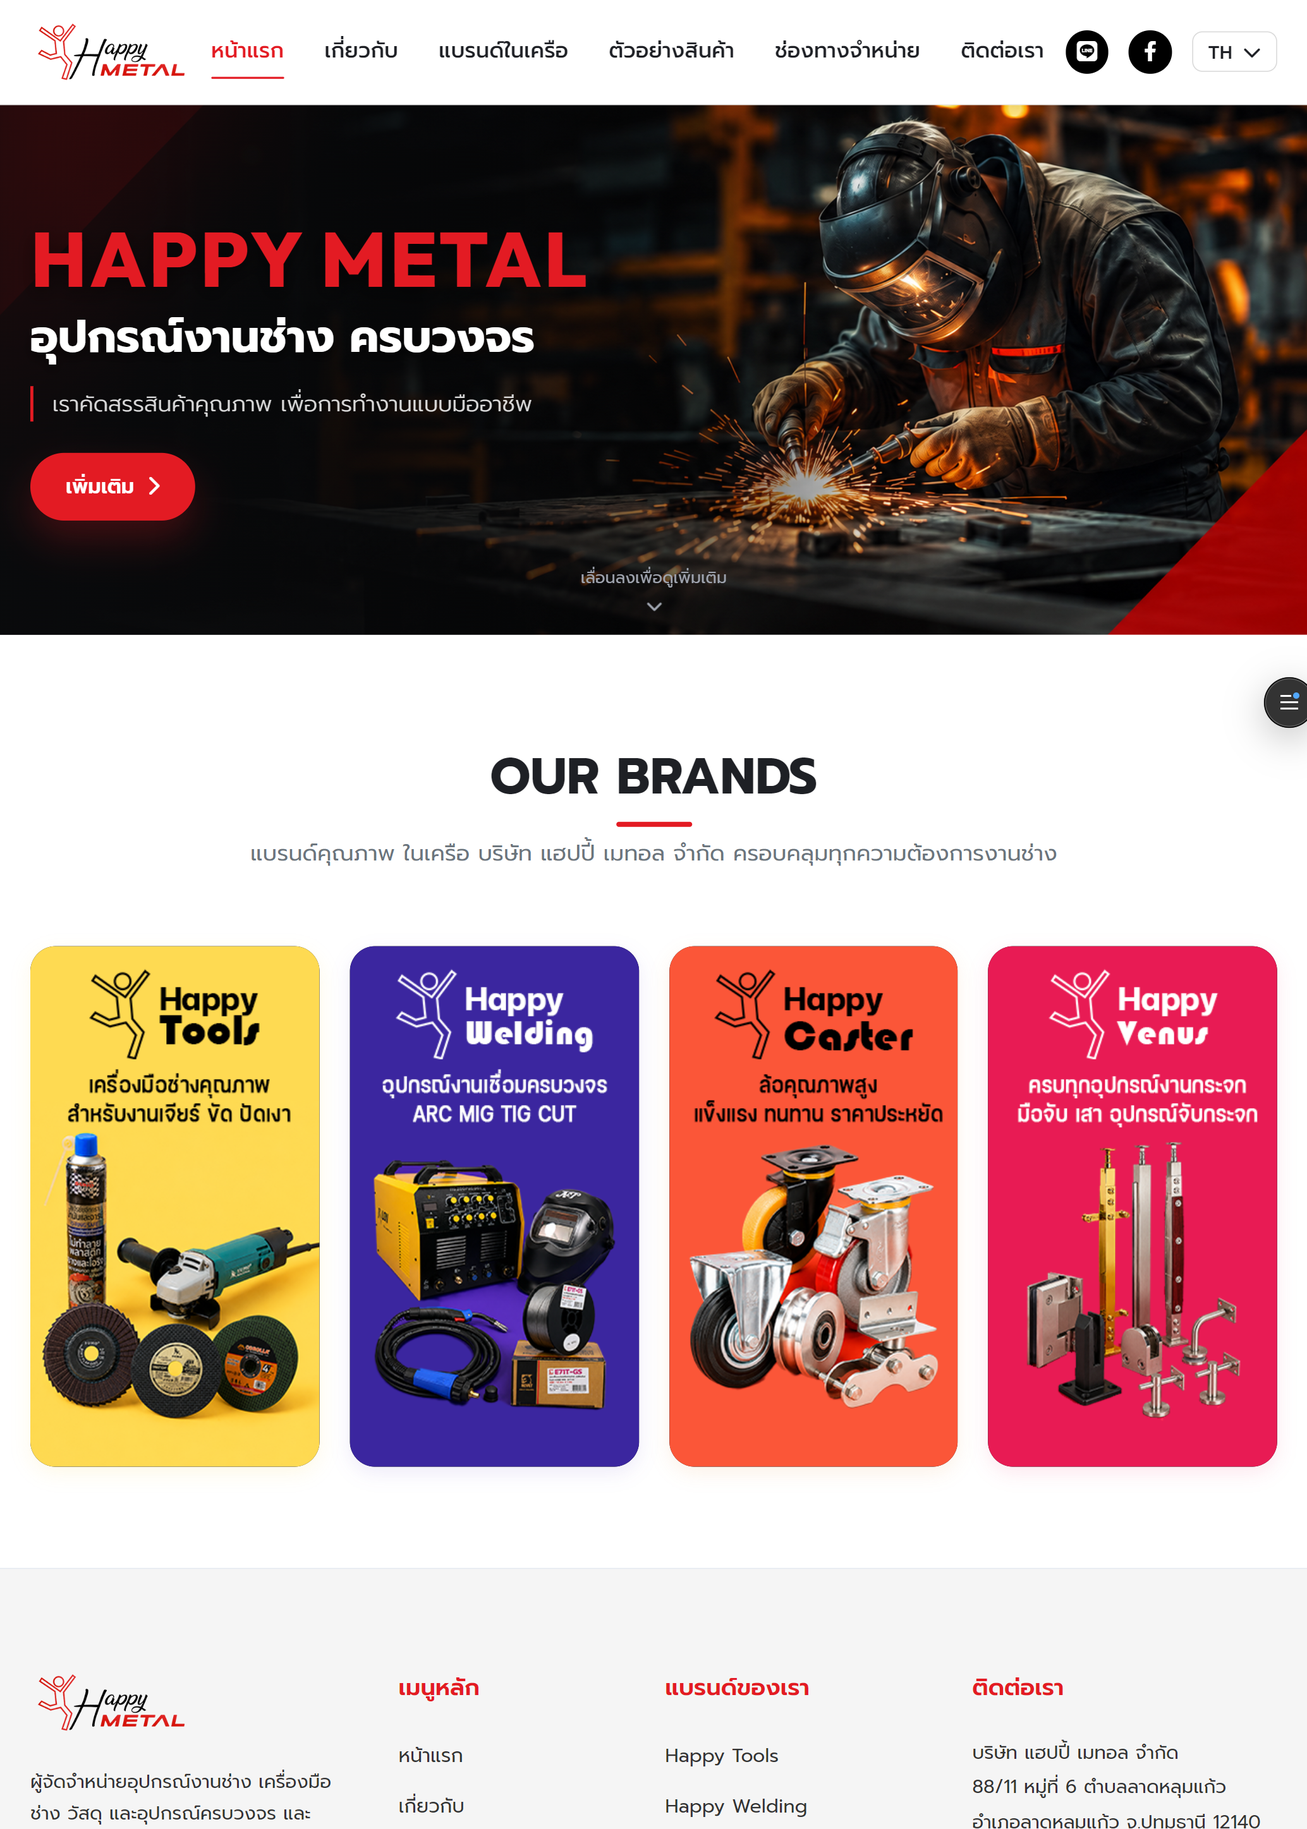
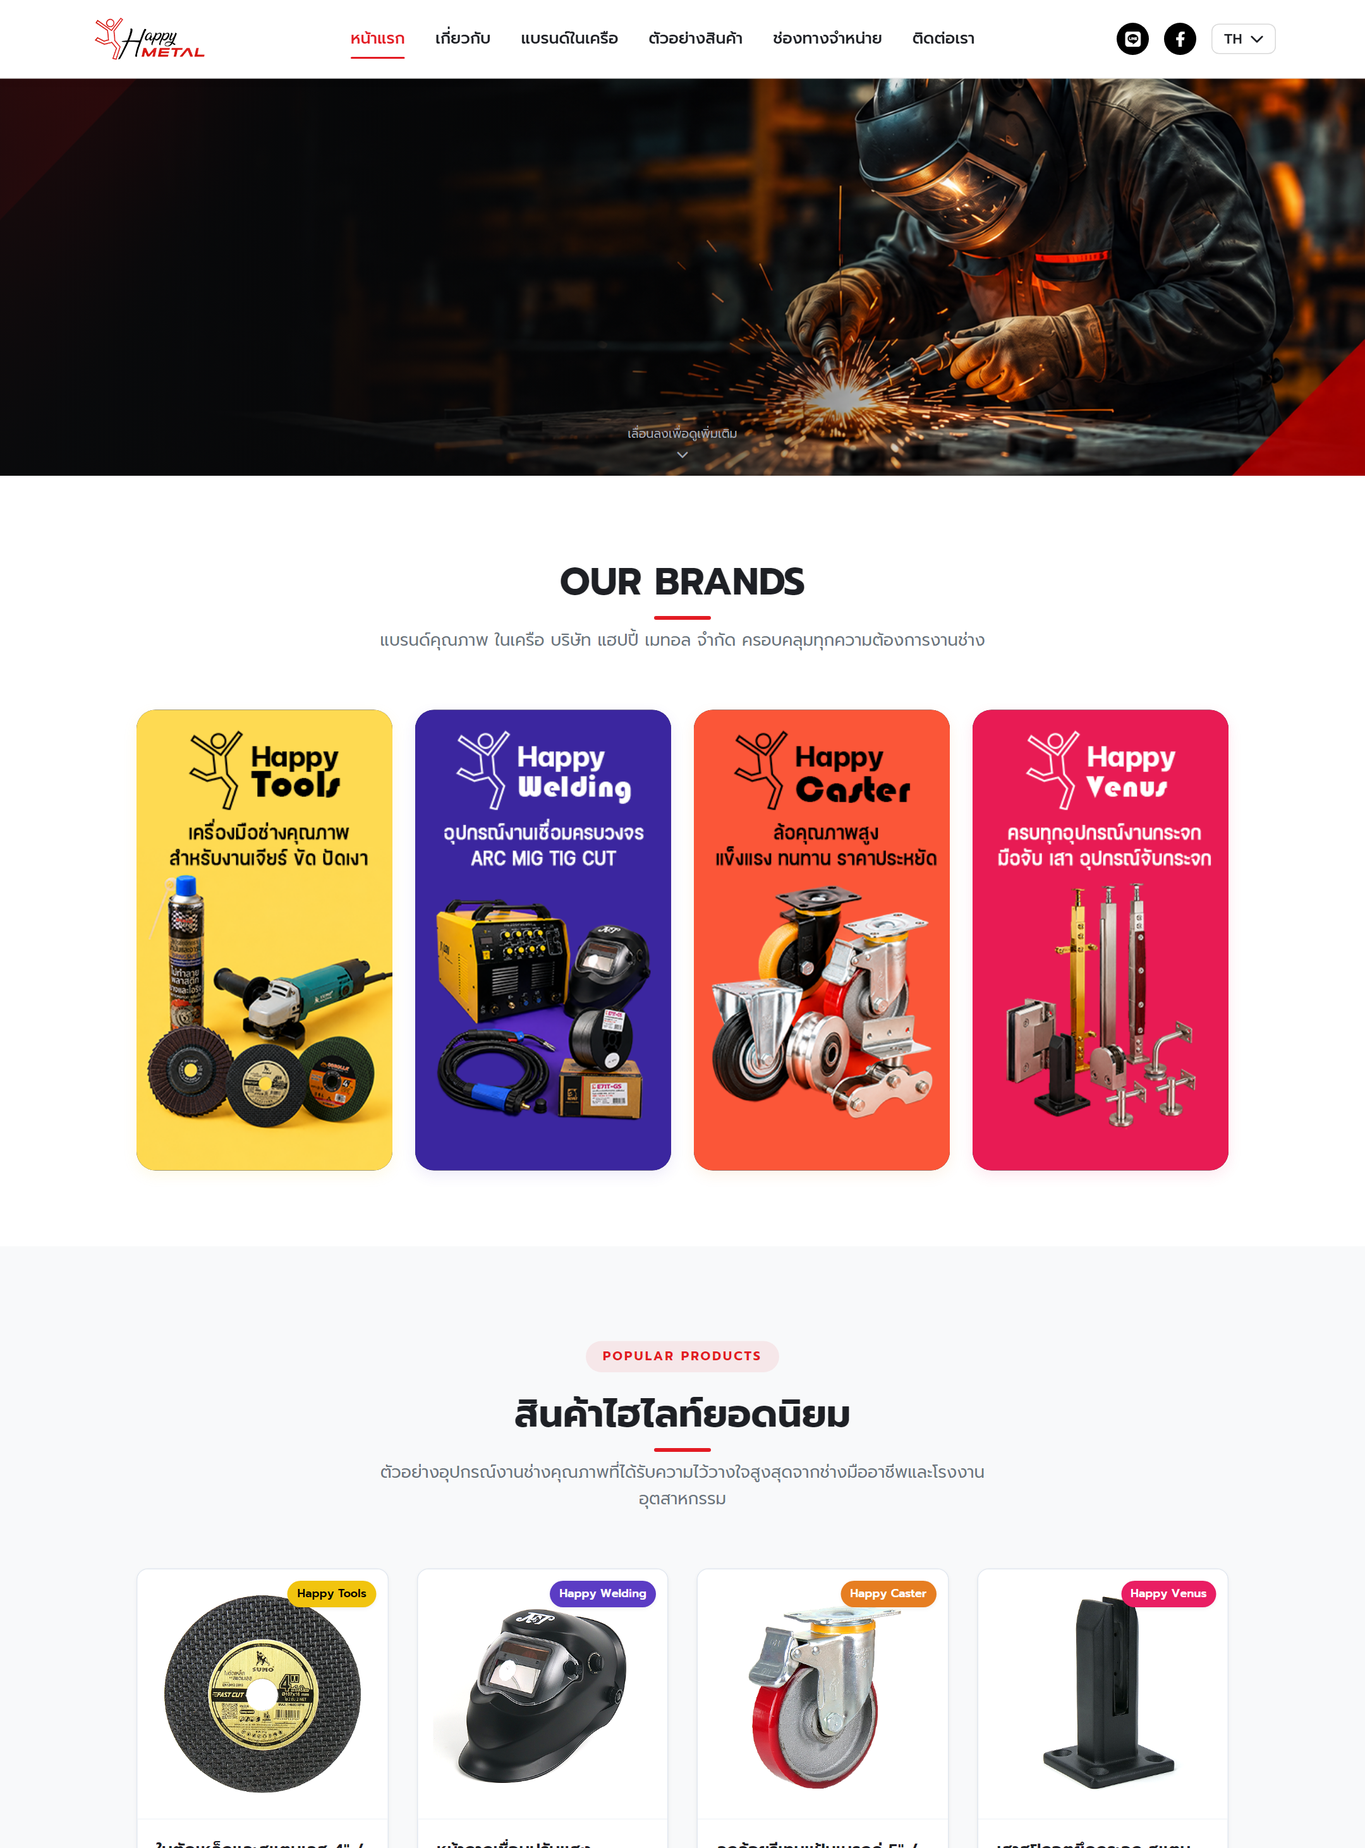
feat(web-ui): update Happy Metal project to 6 widescreen desktop pages and fix modal image aspect ratio

diff --git a/index.html b/index.html
@@ -1590,7 +1590,7 @@
 
     .modal-image-gallery.full-size-gallery .modal-image-item {
       width: 100%;
-      max-width: 960px;
+      max-width: 1120px;
       display: flex;
       justify-content: center;
       align-items: center;
@@ -2159,6 +2159,40 @@
       border-color: var(--accent);
       background: rgba(var(--accent-rgb), 0.08);
       transform: translateY(-1px);
+    }
+
+    .ui-subbar-actions {
+      display: flex;
+      align-items: center;
+      gap: 10px;
+      flex-wrap: wrap;
+    }
+
+    .ui-subbar-link.live-link {
+      background: rgba(229, 46, 45, 0.12);
+      border-color: rgba(229, 46, 45, 0.45);
+      color: #ff5f56;
+      font-weight: 700;
+    }
+
+    .ui-subbar-link.live-link:hover {
+      background: #E52E2D;
+      color: #ffffff;
+      border-color: #E52E2D;
+      box-shadow: 0 4px 16px rgba(229, 46, 45, 0.45);
+      transform: translateY(-2px);
+    }
+
+    a.ui-browser-url {
+      text-decoration: none;
+      cursor: pointer;
+      transition: all 0.2s ease;
+    }
+
+    a.ui-browser-url:hover {
+      color: var(--ink);
+      border-color: rgba(229, 46, 45, 0.6);
+      background: rgba(229, 46, 45, 0.15);
     }
 
     @media (max-width: 860px) {
@@ -4020,19 +4054,22 @@
                   <span class="ui-subbar-dot">·</span>
                   <span class="ui-subbar-type" data-en="E-Commerce & Web Architecture" data-th="เว็บไซต์ & โครงสร้างแคตตาล็อก">E-Commerce & Web Architecture</span>
                   <span class="ui-subbar-dot">·</span>
-                  <span class="ui-subbar-pages" data-en="4 Core Desktop Templates" data-th="4 หน้าหลัก (Desktop)">4 Core Desktop Templates</span>
+                  <span class="ui-subbar-pages" data-en="6 Core Desktop Templates" data-th="6 หน้าหลัก (Desktop)">6 Core Desktop Templates</span>
                 </div>
                 <h4 class="ui-subbar-title" data-en="Happy Metal — Industrial Hardware & Tools Website" data-th="Happy Metal — เว็บไซต์อุปกรณ์เครื่องมือช่าง & งานเชื่อม">Happy Metal — Industrial Hardware & Tools Website</h4>
               </div>
               <div class="ui-subbar-aside">
-                <p class="ui-subbar-desc" data-en="UI/UX desktop layout structured for clear catalog categorization and industrial brand aesthetic." data-th="ออกแบบ UI/UX เว็บไซต์ Happy Metal เน้นการจัดหมวดหมู่สินค้าให้ค้นหาง่าย ชัดเจน และเป็นระบบ">
-                  UI/UX desktop layout structured for clear catalog categorization and industrial brand aesthetic.
+                <p class="ui-subbar-desc" data-en="UI/UX desktop layout structured for clear catalog categorization, dynamic live search, and industrial brand aesthetic." data-th="ออกแบบ UI/UX เว็บไซต์ Happy Metal เน้นการจัดหมวดหมู่สินค้า ค้นหาด้วยระบบเสิร์ช และอัตลักษณ์แบรนด์งานช่างระดับมืออาชีพ">
+                  UI/UX desktop layout structured for clear catalog categorization, dynamic live search, and industrial brand aesthetic.
                 </p>
-                <a href="#project-happy-metal" class="ui-subbar-link" data-en="Product Graphics ↗" data-th="ดูกราฟิกสินค้า ↗">Product Graphics ↗</a>
+                <div class="ui-subbar-actions">
+                  <a href="https://happy-metal.vercel.app/index.html" target="_blank" rel="noopener noreferrer" class="ui-subbar-link live-link" data-en="Live Website ↗" data-th="เข้าชมเว็บไซต์จริง ↗">Live Website ↗</a>
+                  <a href="#project-happy-metal" class="ui-subbar-link" data-en="Product Graphics ↗" data-th="ดูกราฟิกสินค้า ↗">Product Graphics ↗</a>
+                </div>
               </div>
             </div>
 
-            <!-- 4 BROWSER MOCKUP CARDS GRID -->
+            <!-- 6 BROWSER MOCKUP CARDS GRID -->
             <div class="ui-browser-grid">
               <!-- Screen 01: Homepage -->
               <div class="ui-browser-card reveal reveal-scale vm-clickable-item" data-index="44" data-img-idx="0"
@@ -4043,7 +4080,7 @@
                     <span class="dot yellow"></span>
                     <span class="dot green"></span>
                   </div>
-                  <div class="ui-browser-url">happymetal.com/index.html</div>
+                  <a href="https://happy-metal.vercel.app/index.html" target="_blank" rel="noopener noreferrer" class="ui-browser-url" title="Open live page in new tab" onclick="event.stopPropagation()">happy-metal.vercel.app/index.html ↗</a>
                   <div class="ui-browser-page-num">01 / HOME</div>
                 </div>
                 <div class="ui-browser-screen">
@@ -4054,8 +4091,8 @@
                   </div>
                 </div>
                 <div class="ui-browser-footer">
-                  <span class="ui-screen-title" data-en="01. Homepage — Hero & Highlights"
-                    data-th="01. Homepage — หน้าแรก & สินค้าไฮไลต์">01. Homepage — หน้าแรก & สินค้าไฮไลต์</span>
+                  <span class="ui-screen-title" data-en="01. Homepage — Hero, Brands & Highlights"
+                    data-th="01. Homepage — หน้าแรก แบรนด์ & สินค้าไฮไลต์">01. Homepage — หน้าแรก แบรนด์ & สินค้าไฮไลต์</span>
                   <span class="ui-screen-badge">Main Page</span>
                 </div>
               </div>
@@ -4069,7 +4106,7 @@
                     <span class="dot yellow"></span>
                     <span class="dot green"></span>
                   </div>
-                  <div class="ui-browser-url">happymetal.com/about.html</div>
+                  <a href="https://happy-metal.vercel.app/about.html" target="_blank" rel="noopener noreferrer" class="ui-browser-url" title="Open live page in new tab" onclick="event.stopPropagation()">happy-metal.vercel.app/about.html ↗</a>
                   <div class="ui-browser-page-num">02 / ABOUT</div>
                 </div>
                 <div class="ui-browser-screen">
@@ -4080,14 +4117,13 @@
                   </div>
                 </div>
                 <div class="ui-browser-footer">
-                  <span class="ui-screen-title" data-en="02. About Us — Company Profile"
-                    data-th="02. About Us — เกี่ยวกับบริษัท & วิสัยทัศน์">02. About Us — เกี่ยวกับบริษัท &
-                    วิสัยทัศน์</span>
-                  <span class="ui-screen-badge">Story</span>
+                  <span class="ui-screen-title" data-en="02. About Us — Company Profile & Warehouse"
+                    data-th="02. About Us — เกี่ยวกับบริษัท & คลังสินค้ามาตรฐาน">02. About Us — เกี่ยวกับบริษัท & คลังสินค้ามาตรฐาน</span>
+                  <span class="ui-screen-badge">Company</span>
                 </div>
               </div>
 
-              <!-- Screen 03: Product Catalog -->
+              <!-- Screen 03: Our Brands -->
               <div class="ui-browser-card reveal reveal-scale vm-clickable-item" data-index="44" data-img-idx="2"
                 role="button" tabindex="0" title="Click to view full screen">
                 <div class="ui-browser-bar">
@@ -4096,25 +4132,24 @@
                     <span class="dot yellow"></span>
                     <span class="dot green"></span>
                   </div>
-                  <div class="ui-browser-url">happymetal.com/catalog.html</div>
-                  <div class="ui-browser-page-num">03 / CATALOG</div>
+                  <a href="https://happy-metal.vercel.app/brands.html" target="_blank" rel="noopener noreferrer" class="ui-browser-url" title="Open live page in new tab" onclick="event.stopPropagation()">happy-metal.vercel.app/brands.html ↗</a>
+                  <div class="ui-browser-page-num">03 / BRANDS</div>
                 </div>
                 <div class="ui-browser-screen">
-                  <img src="assets/Web & ui Design/catalog.html (3).webp" alt="Happy Metal - Product Catalog UI Design"
+                  <img src="assets/Web & ui Design/brands.html (3).webp" alt="Happy Metal - Our Brands UI Design"
                     loading="lazy" decoding="async">
                   <div class="ui-card-overlay">
                     <span class="ui-zoom-btn">🔍 View Full Page</span>
                   </div>
                 </div>
                 <div class="ui-browser-footer">
-                  <span class="ui-screen-title" data-en="03. Catalog — Tool Categories & Specs"
-                    data-th="03. Catalog — หมวดหมู่อุปกรณ์ & สเปกสินค้า">03. Catalog — หมวดหมู่อุปกรณ์ &
-                    สเปกสินค้า</span>
-                  <span class="ui-screen-badge">Catalog</span>
+                  <span class="ui-screen-title" data-en="03. Our Brands — 4 Industrial Product Lines"
+                    data-th="03. Our Brands — 4 แบรนด์อุปกรณ์ช่างในเครือ">03. Our Brands — 4 แบรนด์อุปกรณ์ช่างในเครือ</span>
+                  <span class="ui-screen-badge">Brands</span>
                 </div>
               </div>
 
-              <!-- Screen 04: Channels / Contact -->
+              <!-- Screen 04: Product Catalog -->
               <div class="ui-browser-card reveal reveal-scale vm-clickable-item" data-index="44" data-img-idx="3"
                 role="button" tabindex="0" title="Click to view full screen">
                 <div class="ui-browser-bar">
@@ -4123,20 +4158,72 @@
                     <span class="dot yellow"></span>
                     <span class="dot green"></span>
                   </div>
-                  <div class="ui-browser-url">happymetal.com/channels.html</div>
-                  <div class="ui-browser-page-num">04 / CHANNELS</div>
+                  <a href="https://happy-metal.vercel.app/catalog.html" target="_blank" rel="noopener noreferrer" class="ui-browser-url" title="Open live page in new tab" onclick="event.stopPropagation()">happy-metal.vercel.app/catalog.html ↗</a>
+                  <div class="ui-browser-page-num">04 / CATALOG</div>
                 </div>
                 <div class="ui-browser-screen">
-                  <img src="assets/Web & ui Design/channels.html (4).webp"
-                    alt="Happy Metal - Channels & Contact UI Design" loading="lazy" decoding="async">
+                  <img src="assets/Web & ui Design/catalog.html (4).webp" alt="Happy Metal - Product Catalog UI Design"
+                    loading="lazy" decoding="async">
                   <div class="ui-card-overlay">
                     <span class="ui-zoom-btn">🔍 View Full Page</span>
                   </div>
                 </div>
                 <div class="ui-browser-footer">
-                  <span class="ui-screen-title" data-en="04. Channels — Stores & Contact"
-                    data-th="04. Channels — ช่องทางจัดจำหน่าย & ติดต่อ">04. Channels — ช่องทางจัดจำหน่าย & ติดต่อ</span>
+                  <span class="ui-screen-title" data-en="04. Catalog — Live Search & Product Specs"
+                    data-th="04. Catalog — ระบบค้นหาสินค้า & สเปกอุปกรณ์">04. Catalog — ระบบค้นหาสินค้า & สเปกอุปกรณ์</span>
+                  <span class="ui-screen-badge">Catalog</span>
+                </div>
+              </div>
+
+              <!-- Screen 05: Channels -->
+              <div class="ui-browser-card reveal reveal-scale vm-clickable-item" data-index="44" data-img-idx="4"
+                role="button" tabindex="0" title="Click to view full screen">
+                <div class="ui-browser-bar">
+                  <div class="ui-browser-dots">
+                    <span class="dot red"></span>
+                    <span class="dot yellow"></span>
+                    <span class="dot green"></span>
+                  </div>
+                  <a href="https://happy-metal.vercel.app/channels.html" target="_blank" rel="noopener noreferrer" class="ui-browser-url" title="Open live page in new tab" onclick="event.stopPropagation()">happy-metal.vercel.app/channels.html ↗</a>
+                  <div class="ui-browser-page-num">05 / CHANNELS</div>
+                </div>
+                <div class="ui-browser-screen">
+                  <img src="assets/Web & ui Design/channels.html (5).webp"
+                    alt="Happy Metal - Channels & Stores UI Design" loading="lazy" decoding="async">
+                  <div class="ui-card-overlay">
+                    <span class="ui-zoom-btn">🔍 View Full Page</span>
+                  </div>
+                </div>
+                <div class="ui-browser-footer">
+                  <span class="ui-screen-title" data-en="05. Channels — Official Online Stores"
+                    data-th="05. Channels — ช่องทางสั่งซื้อออนไลน์ & ข้อมูลติดต่อ">05. Channels — ช่องทางสั่งซื้อออนไลน์ & ข้อมูลติดต่อ</span>
                   <span class="ui-screen-badge">Channels</span>
+                </div>
+              </div>
+
+              <!-- Screen 06: Contact Us -->
+              <div class="ui-browser-card reveal reveal-scale vm-clickable-item" data-index="44" data-img-idx="5"
+                role="button" tabindex="0" title="Click to view full screen">
+                <div class="ui-browser-bar">
+                  <div class="ui-browser-dots">
+                    <span class="dot red"></span>
+                    <span class="dot yellow"></span>
+                    <span class="dot green"></span>
+                  </div>
+                  <a href="https://happy-metal.vercel.app/contact.html" target="_blank" rel="noopener noreferrer" class="ui-browser-url" title="Open live page in new tab" onclick="event.stopPropagation()">happy-metal.vercel.app/contact.html ↗</a>
+                  <div class="ui-browser-page-num">06 / CONTACT</div>
+                </div>
+                <div class="ui-browser-screen">
+                  <img src="assets/Web & ui Design/contact.html (6).webp"
+                    alt="Happy Metal - Contact Us UI Design" loading="lazy" decoding="async">
+                  <div class="ui-card-overlay">
+                    <span class="ui-zoom-btn">🔍 View Full Page</span>
+                  </div>
+                </div>
+                <div class="ui-browser-footer">
+                  <span class="ui-screen-title" data-en="06. Contact Us — Direct Inquiry & Quotations"
+                    data-th="06. Contact Us — ติดต่อฝ่ายขาย & ขอใบเสนอราคา">06. Contact Us — ติดต่อฝ่ายขาย & ขอใบเสนอราคา</span>
+                  <span class="ui-screen-badge">Contact</span>
                 </div>
               </div>
             </div>
@@ -5172,14 +5259,16 @@
         images: [
           'assets/Web & ui Design/index.html (1).webp',
           'assets/Web & ui Design/about.html (2).webp',
-          'assets/Web & ui Design/catalog.html (3).webp',
-          'assets/Web & ui Design/channels.html (4).webp'
+          'assets/Web & ui Design/brands.html (3).webp',
+          'assets/Web & ui Design/catalog.html (4).webp',
+          'assets/Web & ui Design/channels.html (5).webp',
+          'assets/Web & ui Design/contact.html (6).webp'
         ],
         fullSize: true,
         tag: 'WEB & UI DESIGN',
-        title: 'Happy Metal — เว็บไซต์อุปกรณ์เครื่องมือช่าง',
-        desc: 'โปรเจคออกแบบ UI/UX เว็บไซต์ Happy Metal จัดจำหน่ายอุปกรณ์เครื่องมือช่าง งานเชื่อม และฮาร์ดแวร์อุตสาหกรรม โดยเน้นการจัดวางโครงสร้างข้อมูลสินค้า (Information Architecture) ให้ค้นหาง่าย รวดเร็ว ดีไซน์ทันสมัย ตอบโจทย์ทั้งช่างมืออาชีพและโรงงานอุตสาหกรรม ครอบคลุม 4 หน้าหลัก: Homepage (หน้าแรก), About Us (เกี่ยวกับเรา), Product Catalog (แคตตาล็อกสินค้า) และ Distribution Channels (ช่องทางการจัดจำหน่าย)',
-        client: 'Happy Metal',
+        title: 'Happy Metal — Industrial Hardware & Tools Corporate Website',
+        desc: 'โปรเจคออกแบบและพัฒนา UI/UX เว็บไซต์ Happy Metal ผู้นำเข้าและจัดจำหน่ายอุปกรณ์งานช่าง เครื่องมือช่าง อุปกรณ์งานเชื่อม ลูกล้ออุตสาหกรรม และอุปกรณ์งานกระจกครบวงจร โครงสร้างเว็บไซต์ครอบคลุม 6 หน้าหลัก: 01. Homepage (หน้าแรก แบรนด์ & สินค้าไฮไลต์), 02. About Us (ข้อมูลบริษัท คลังสินค้า & สถิติความเชี่ยวชาญ), 03. Our Brands (4 กลุ่มแบรนด์สินค้าหลัก), 04. Product Catalog (แคตตาล็อกสินค้าพร้อมระบบค้นหาและฟิลเตอร์แยกหมวดหมู่), 05. Distribution Channels (ช่องทางจัดจำหน่ายทางการ & ลิงก์ร้านค้า), และ 06. Contact Us (ข้อมูลสำนักงานใหญ่ แผนที่ & แบบฟอร์มติดต่อสอบถาม)',
+        client: 'Happy Metal Co., Ltd.',
         role: 'UI/UX & Web Design',
         year: '2024'
       },
